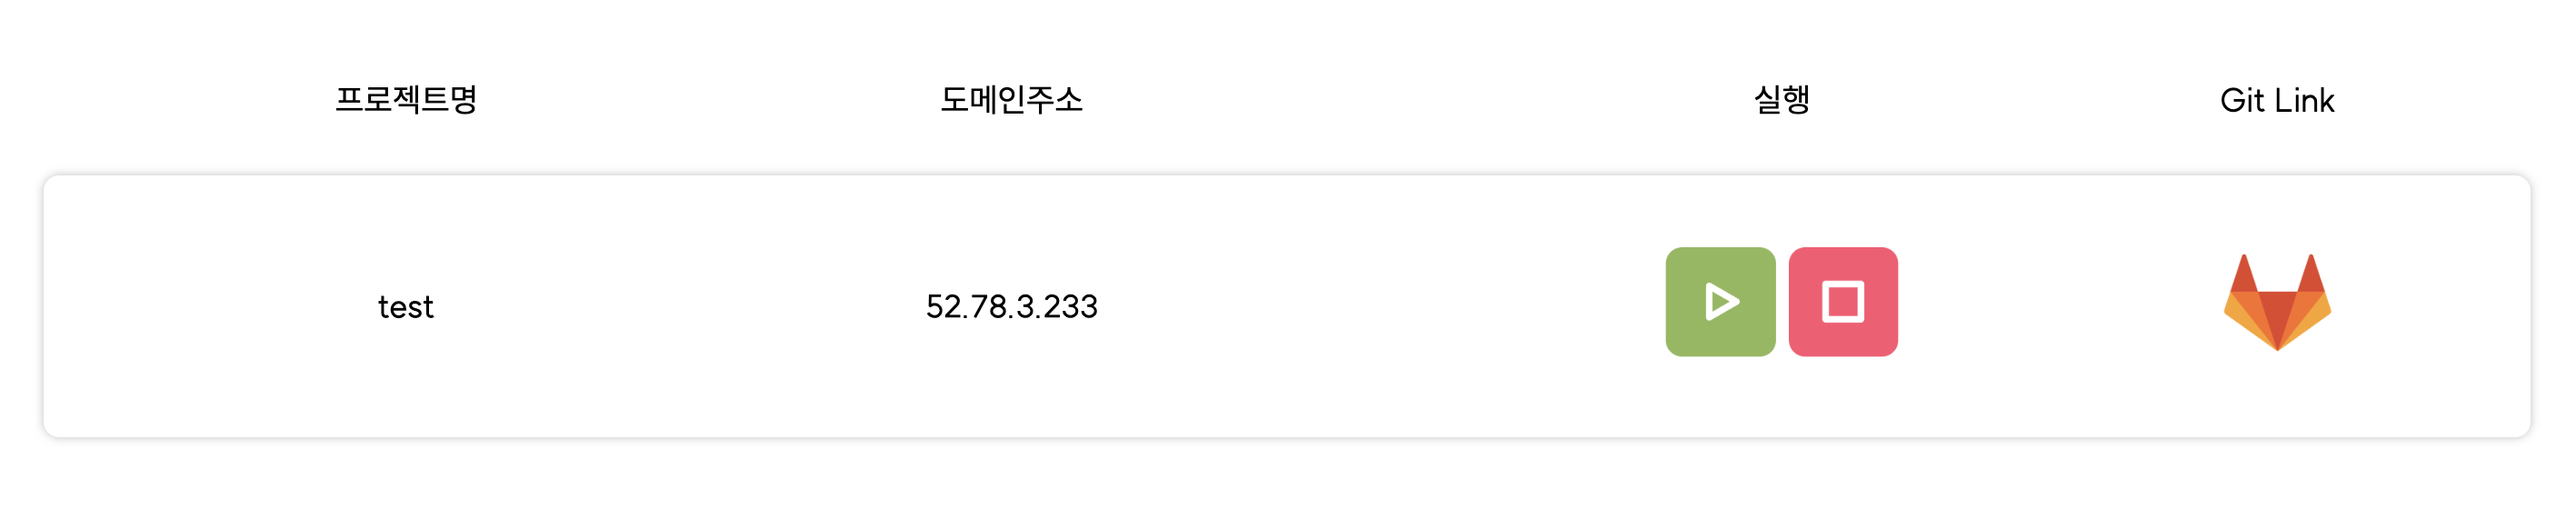
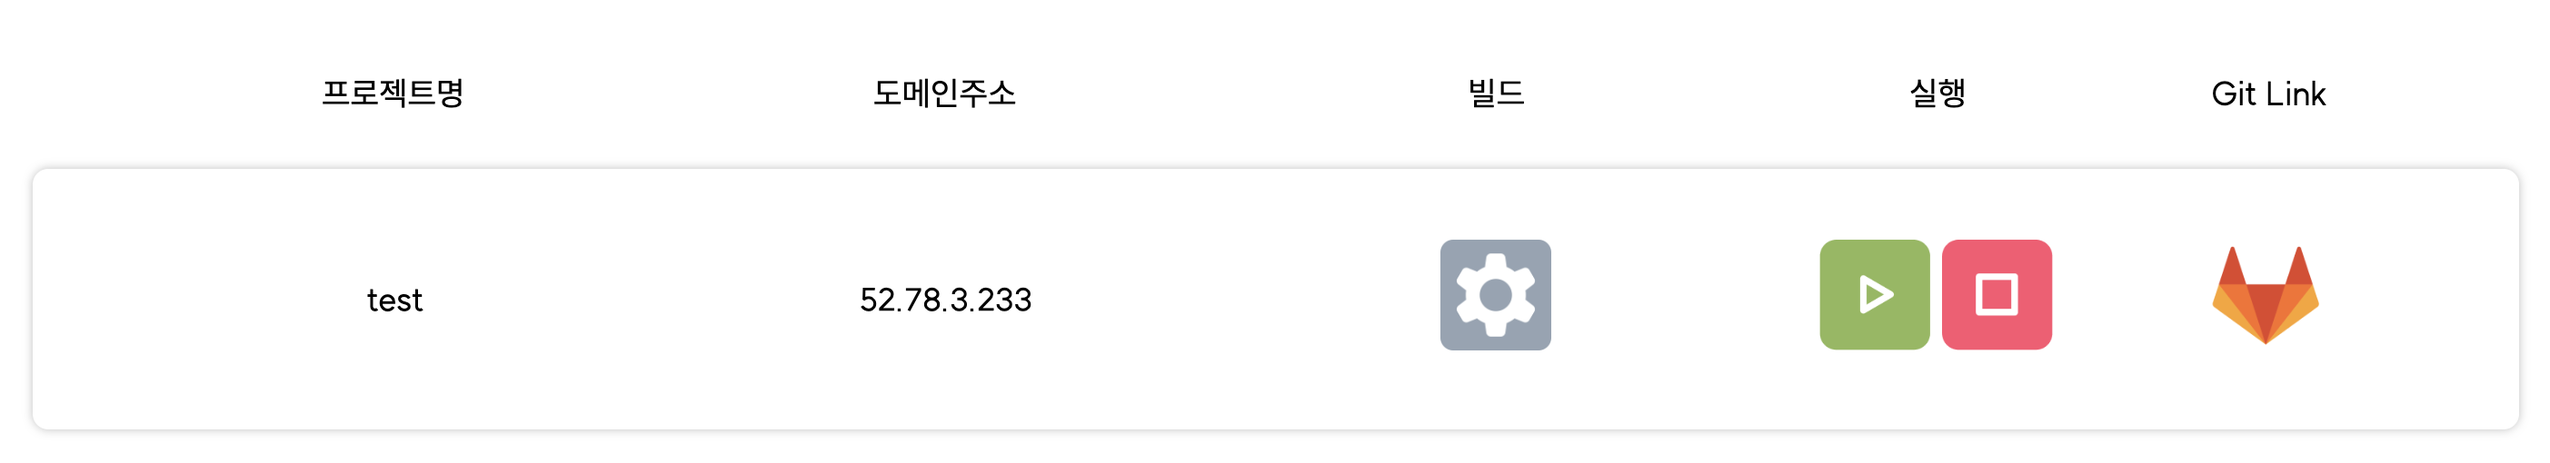
REFACTOR : GuidePage build 설명 추가

diff --git a/frontend/src/components/guide/RunStopFrame.jsx b/frontend/src/components/guide/RunStopFrame.jsx
@@ -1,9 +1,11 @@
 import styles from "./RunStopFrame.module.css";
 import Run from "../../assets/run.png";
+import Build from "../../assets/settings.png";
 import Restart from "../../assets/restart.png";
 import RunAllServices1 from "../../assets/guide/RunAllServices1.png";
 import RunAllServices2 from "../../assets/guide/RunAllServices2.png";
 import RunAllServices3 from "../../assets/guide/RunAllServices3.png";
+import Building1 from "../../assets/guide/Building1.png";
 import RunLoading from "../../assets/guide/RunLoading.png";
 import RunStatus from "../../assets/guide/RunStatus.png";
 export default function RunStopFrame() {
@@ -23,8 +25,34 @@ export default function RunStopFrame() {
             </figcaption>
           </figure>
           <div>
-            프로젝트가 정상적으로 등록되면 메인화면에 다음과 같이 표시됩니다.
+            프로젝트가 정상적으로 등록되면 메인화면에 위와 같이 표시됩니다.
           </div>
+          <div className={styles.textWithImg}>
+            <img src={Build} alt="run" className={styles.runIcon} />
+            아이콘을 클릭하여 전체 서비스를 빌드시킵니다.
+          </div>
+          <div>
+            <b>
+              Dobie에서의 빌드는 빌드에 사용되는 Dockerfile, Docker-compose.yml
+              파일 등을 적절한 위치에 생성하는 과정입니다.
+            </b>
+          </div>
+          <div>
+            빌드는 실행될때마다 Git Pull, 빌드파일 생성의 과정을 진행합니다.
+          </div>
+          <div>
+            즉 변경사항이 있을때 Webhook 설정을 하지 않았다면
+            <b>
+              {" "}
+              빌드 버튼을 누르고 재실행 하는 것으로 프로젝트를 최신화 할 수
+              있습니다.
+            </b>
+          </div>
+          <figure className={styles.imgBox}>
+            <img alt="name" src={Building1} className={styles.buildingImg1} />
+            <figcaption className={styles.caption}>Loading</figcaption>
+          </figure>
+          <div>빌드를 완료한 후 전체 서비스를 실행합니다.</div>
           <div className={styles.textWithImg}>
             <img src={Run} alt="run" className={styles.runIcon} />
             아이콘을 클릭하여 전체 서비스를 실행시킵니다.
@@ -33,13 +61,8 @@ export default function RunStopFrame() {
             <img alt="name" src={RunLoading} className={styles.loadingImg} />
             <figcaption className={styles.caption}>Loading</figcaption>
           </figure>
-          <div>정상적으로 실행시켰다면 Building 이미지가 표시됩니다.</div>
-          <figure className={styles.imgBox}>
-            <img alt="name" src={RunAllServices2} className={styles.runImg} />
-            <figcaption className={styles.caption}>
-              Run All Services 2
-            </figcaption>
-          </figure>
+          <div>정상적으로 실행시켰다면 Running 이미지가 표시됩니다.</div>
+
           <div className={styles.textWithImg}>
             <img src={Restart} alt="run" className={styles.runIcon} />로 실행
             버튼이 바뀐다면 정상적으로 실행이 완료된 것 입니다.
@@ -47,7 +70,7 @@ export default function RunStopFrame() {
           <figure className={styles.imgBox}>
             <img alt="name" src={RunAllServices3} className={styles.runImg} />
             <figcaption className={styles.caption}>
-              Run All Services3
+              Run All Services2
             </figcaption>
           </figure>
           <div>

diff --git a/frontend/src/components/guide/RunStopFrame.module.css b/frontend/src/components/guide/RunStopFrame.module.css
@@ -63,3 +63,6 @@
 .runStatusImg {
   width: 50vw;
 }
+.buildingImg1 {
+  width: 30vw;
+}
